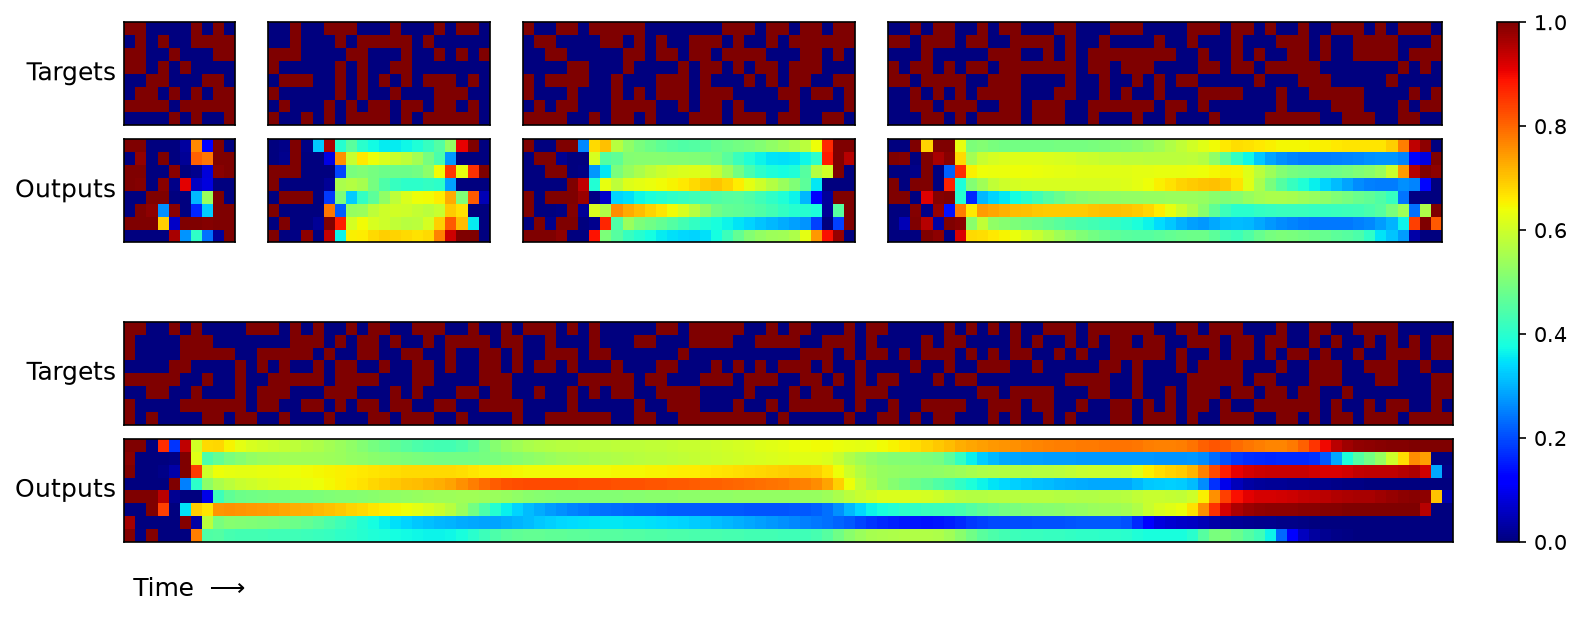
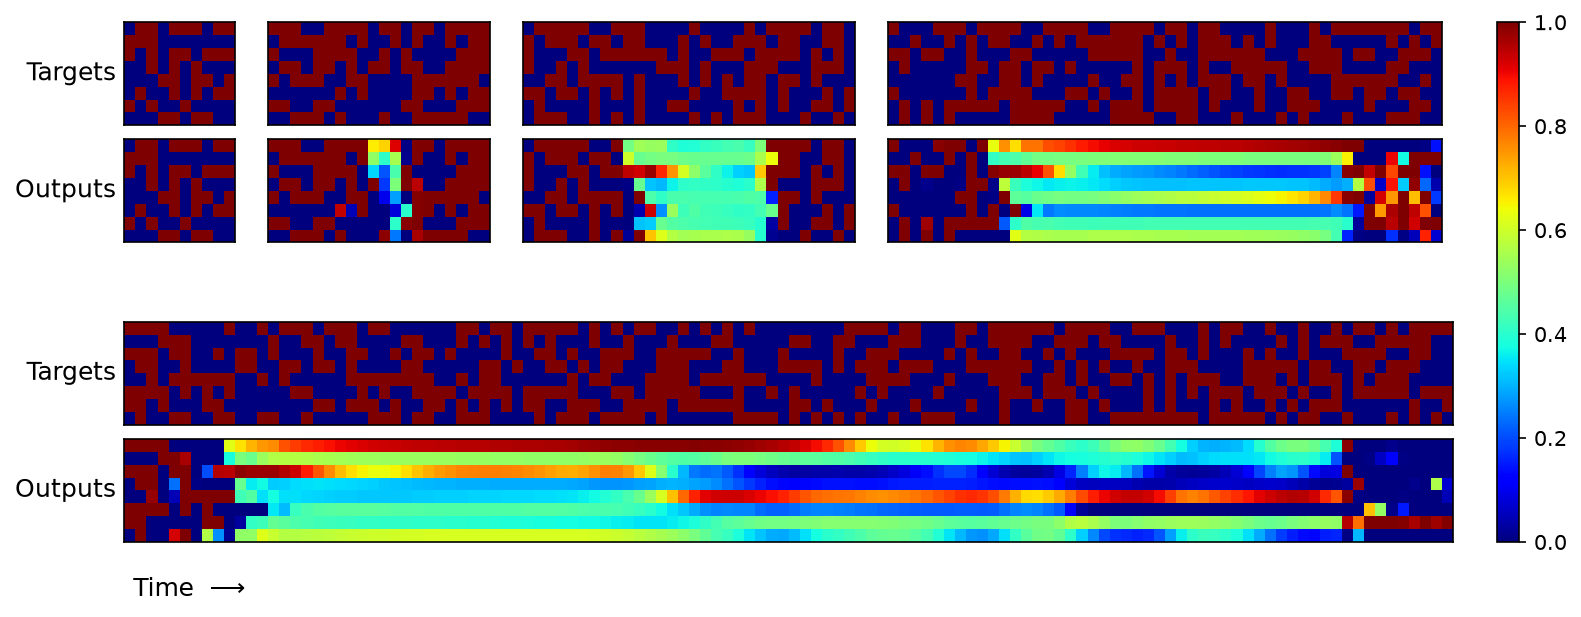
Give every task the architecture the paper specifies
Tables 1-3 give each task its own head count, controller size and
learning rate; running them all with the copy task's model was not a fair
test - priority sort is meant to have 8 heads and a 512-unit controller,
not 1 and 100. Parameter counts now land within 1-2% of the paper's for
most task/model pairs, and within 1% for dynamic N-grams.

The LSTM controller can also stack layers, which priority sort needs.

diff --git a/src/models/build.py b/src/models/build.py
@@ -8,28 +8,68 @@ import torch
 from src.models.lstm import LSTM
 from src.models.ntm.ntm import NTM
 
-MODELS = {
-    # the baseline: 3 x 256 LSTM, Table 3
-    "lstm": lambda i, o: LSTM(input_size=i, output_size=o),
-    "ntm-ff": lambda i, o: NTM(input_size=i, output_size=o, controller="feedforward"),  # Table 1
-    "ntm-lstm": lambda i, o: NTM(input_size=i, output_size=o, controller="lstm"),  # Table 2
+MODELS = ["lstm", "ntm-ff", "ntm-lstm"]
+
+# The paper gives every task its own architecture and learning rate, in Tables 1 (NTM with a
+# feed-forward controller), 2 (NTM with an LSTM controller) and 3 (the LSTM baseline). Running
+# every task with the copy task's model, as an earlier version of this code did, is not a fair
+# test: priority sort is meant to have 8 heads and a 512-unit controller, not 1 and 100.
+#
+# "#Heads" is read here as that many read heads and that many write heads.
+SETTINGS = {
+    #                     ntm-ff: heads, controller   ntm-lstm: heads, controller, layers   lstm: units, layers
+    "copy": {
+        "ntm-ff": dict(heads=1, controller_size=100, learning_rate=1e-4),
+        "ntm-lstm": dict(heads=1, controller_size=100, learning_rate=1e-4),
+        "lstm": dict(hidden_size=256, num_layers=3, learning_rate=3e-5),
+    },
+    "repeat-copy": {
+        "ntm-ff": dict(heads=1, controller_size=100, learning_rate=1e-4),
+        "ntm-lstm": dict(heads=1, controller_size=100, learning_rate=1e-4),
+        "lstm": dict(hidden_size=512, num_layers=3, learning_rate=3e-5),
+    },
+    "associative-recall": {
+        "ntm-ff": dict(heads=4, controller_size=256, learning_rate=1e-4),
+        "ntm-lstm": dict(heads=1, controller_size=100, learning_rate=1e-4),
+        "lstm": dict(hidden_size=256, num_layers=3, learning_rate=1e-4),
+    },
+    "dynamic-ngrams": {
+        "ntm-ff": dict(heads=1, controller_size=100, learning_rate=3e-5),
+        "ntm-lstm": dict(heads=1, controller_size=100, learning_rate=3e-5),
+        "lstm": dict(hidden_size=128, num_layers=3, learning_rate=1e-4),
+    },
+    "priority-sort": {
+        "ntm-ff": dict(heads=8, controller_size=512, learning_rate=3e-5),
+        "ntm-lstm": dict(heads=5, controller_size=100, controller_layers=2, learning_rate=3e-5),
+        "lstm": dict(hidden_size=128, num_layers=3, learning_rate=3e-5),
+    },
 }
 
-# The paper's rates, Tables 1-3. They assume one sequence per update, which is the default here.
-# With a larger batch there are proportionally fewer updates and these are too low: at batch 16
-# the LSTM-controller NTM sits near chance at 1e-4 and needs about 1e-3.
-LEARNING_RATES = {"lstm": 3e-5, "ntm-ff": 1e-4, "ntm-lstm": 1e-4}
+
+def settings(task_name, model_name):
+    if model_name not in MODELS:
+        raise SystemExit(f"unknown model '{model_name}': choose from {', '.join(MODELS)}")
+    return dict(SETTINGS[task_name][model_name])
 
 
-def build_model(name, input_size, output_size):
-    if name not in MODELS:
-        raise SystemExit(f"unknown model '{name}': choose from {', '.join(MODELS)}")
-    return MODELS[name](input_size, output_size)
+def learning_rate(task_name, model_name):
+    return settings(task_name, model_name)["learning_rate"]
 
 
-def load_model(name, checkpoint_path, task):
+def build_model(name, input_size, output_size, task_name="copy"):
+    options = settings(task_name, name)
+    options.pop("learning_rate")
+    if name == "lstm":
+        return LSTM(input_size=input_size, output_size=output_size, **options)
+    heads = options.pop("heads")
+    return NTM(input_size=input_size, output_size=output_size,
+               controller="feedforward" if name == "ntm-ff" else "lstm",
+               num_read_heads=heads, num_write_heads=heads, **options)
+
+
+def load_model(name, checkpoint_path, task, task_name="copy"):
     """The trained model, ready for the plots: same shape as the run that saved it."""
-    model = build_model(name, task.INPUT_SIZE, task.OUTPUT_SIZE)
+    model = build_model(name, task.INPUT_SIZE, task.OUTPUT_SIZE, task_name)
     model.load_state_dict(torch.load(checkpoint_path, map_location="cpu"))
     model.eval()
     return model

diff --git a/main.py b/main.py
@@ -22,8 +22,8 @@ import time
 
 import torch
 
-from src.models.build import LEARNING_RATES, MODELS, build_model
-from src.plots import plot_all_learning_curves, plot_learning_curve, task_plot
+from src.models.build import MODELS, build_model
+from src.plots import plot_all_learning_curves, plot_learning_curve, plot_memory_use, task_plot
 from src.tasks.copy.try_it import parse_vectors, try_sequence
 from src.tasks.registry import TASKS, get_task
 from src.train import TrainConfig, train
@@ -37,7 +37,7 @@ def demo(task_name, model_name):
     print("input x:", tuple(x.shape), f"= (batch, timesteps, {task.INPUT_SIZE} input channels)")
     print(x[0])
 
-    model = build_model(model_name, task.INPUT_SIZE, task.OUTPUT_SIZE)
+    model = build_model(model_name, task.INPUT_SIZE, task.OUTPUT_SIZE, task_name)
     print(f"{model_name}: {model.num_parameters():,} parameters")
     logits = model(x)
     print("output logits:", tuple(logits.shape), f"= (batch, timesteps, {task.OUTPUT_SIZE} output channels)")
@@ -61,9 +61,12 @@ def draw_every_figure(task_name):
         plot_learning_curve(config.log_path, f"{prefix}_learning_curve.png", label=model)
         if generalisation:
             generalisation(model, config.checkpoint_path, f"{prefix}_generalisation.png")
-        if memory_use and model.startswith("ntm"):
-            for length in (20, 40):
-                memory_use(model, config.checkpoint_path, f"{prefix}_memory_length{length}.png", length)
+        if model.startswith("ntm"):
+            if memory_use:  # copy pins the sequence length so the diagonal matches the paper
+                for length in (20, 40):
+                    memory_use(model, config.checkpoint_path, f"{prefix}_memory_length{length}.png", length)
+            else:  # every other task gets the generic version on one of its own examples
+                plot_memory_use(task_name, model, config.checkpoint_path, f"{prefix}_memory.png")
     logs = {model: TrainConfig(model=model, task=task_name).log_path for model in MODELS}
     plot_all_learning_curves(logs, f"figures/{task_name}_learning_curves.png")
 
@@ -146,7 +149,7 @@ def main():
     if args.command == "train":
         config.total_sequences = args.sequences
         config.batch_size = args.batch_size
-        config.learning_rate = args.learning_rate or LEARNING_RATES[args.model]
+        config.learning_rate = args.learning_rate or 0.0
         config.seed = args.seed
         config.device = args.device
         config.compile = args.compile
@@ -168,13 +171,15 @@ def main():
             generalisation(args.model, config.checkpoint_path, f"{prefix}_generalisation.png")
             print(f"saved {prefix}_generalisation.png")
     elif args.command == "memory":
-        memory_use = task_plot(args.task, "plot_memory_use")
-        if not memory_use:
-            raise SystemExit(f"no memory figure for the {args.task} task yet")
         if not args.model.startswith("ntm"):
             raise SystemExit("memory plots need an NTM: --model ntm-ff or ntm-lstm")
-        out = f"{prefix}_memory_length{args.length}.png"
-        memory_use(args.model, config.checkpoint_path, out, args.length)
+        memory_use = task_plot(args.task, "plot_memory_use")
+        if memory_use:  # copy pins the sequence length so the diagonal matches the paper's figure
+            out = f"{prefix}_memory_length{args.length}.png"
+            memory_use(args.model, config.checkpoint_path, out, args.length)
+        else:
+            out = f"{prefix}_memory.png"
+            plot_memory_use(args.task, args.model, config.checkpoint_path, out)
         print(f"saved {out}")
     elif args.command == "try":
         if args.task != "copy":

diff --git a/src/plots.py b/src/plots.py
@@ -100,3 +100,57 @@ def plot_all_learning_curves(log_paths: dict, out_path: str, chunk: int = 10_000
     fig.tight_layout()
     fig.savefig(out_path, dpi=150)
     plt.close(fig)
+
+
+def plot_memory_use(task_name: str, model_name: str, checkpoint_path: str, out_path: str):
+    """Figure 6 of the paper, for any task: what the heads did, timestep by timestep.
+
+    Left column: the input, the vectors written to memory, and the write weightings. Right column:
+    the output, the vectors read back, and the read weightings. A model that has learned to use
+    memory shows sharp weightings that move over time; one that has not shows a smear.
+
+    The copy task overrides this with its own version, which pins the sequence length so the
+    diagonal is easy to compare against the paper's figure.
+    """
+    import torch
+
+    from src.models.build import load_model
+    from src.tasks.registry import get_task
+
+    task = get_task(task_name)
+    model = load_model(model_name, checkpoint_path, task, task_name)
+    x, _, _ = task.batch(1)
+    trace = {}
+    with torch.no_grad():
+        outputs = torch.sigmoid(model(x, trace=trace)[0])
+
+    write_w = torch.stack(trace["write_weightings"], dim=1)
+    read_w = torch.stack(trace["read_weightings"], dim=1)
+    adds = torch.stack(trace["adds"], dim=1)
+    reads = torch.stack(trace["reads"], dim=1)
+
+    used = (write_w.max(dim=1).values + read_w.max(dim=1).values) > 0.01
+    rows = used.nonzero().flatten()
+    window = slice(max(0, int(rows.min()) - 2), int(rows.max()) + 3) if len(rows) else slice(0, 40)
+
+    fig, axes = plt.subplots(3, 2, figsize=(11, 7), gridspec_kw={"height_ratios": [1, 1.3, 2.6]})
+    panels = [
+        ("Inputs", x[0].T, "gray", axes[0, 0]),
+        ("Outputs", outputs.T, "gray", axes[0, 1]),
+        ("Adds", adds, "jet", axes[1, 0]),
+        ("Reads", reads, "jet", axes[1, 1]),
+        ("Write weightings", write_w[window], "gray", axes[2, 0]),
+        ("Read weightings", read_w[window], "gray", axes[2, 1]),
+    ]
+    for title, image, cmap, ax in panels:
+        ax.imshow(image, cmap=cmap, aspect="auto", interpolation="nearest", vmin=0, vmax=1)
+        ax.set_title(title, fontsize=10)
+        ax.set_xticks([])
+        ax.set_yticks([])
+    axes[2, 0].set_ylabel("Location")
+    for ax in (axes[2, 0], axes[2, 1]):
+        ax.set_xlabel("Time \u2192")
+    fig.suptitle(f"{task_name}: {model_name} memory use", fontsize=11)
+    fig.tight_layout()
+    fig.savefig(out_path, dpi=150)
+    plt.close(fig)

diff --git a/src/models/ntm/controllers.py b/src/models/ntm/controllers.py
@@ -23,18 +23,30 @@ class FeedForwardController(nn.Module):
 
 
 class LSTMController(nn.Module):
-    """An LSTM cell, so the controller also has a small internal memory alongside the memory matrix."""
+    """LSTM cells, so the controller also has a small internal memory alongside the memory matrix.
 
-    def __init__(self, input_size, hidden_size):
+    The paper's Table 2 gives priority sort a controller of "2 x 100", two layers of 100 units,
+    so the number of layers is configurable; every other task uses one.
+    """
+
+    def __init__(self, input_size, hidden_size, layers=1):
         super().__init__()
-        self.cell = nn.LSTMCell(input_size, hidden_size)
+        sizes = [input_size] + [hidden_size] * layers
+        self.cells = nn.ModuleList(nn.LSTMCell(sizes[i], sizes[i + 1]) for i in range(layers))
         # The paper resets to a learned bias at the start of each sequence
-        self.h0 = nn.Parameter(torch.zeros(1, hidden_size))
-        self.c0 = nn.Parameter(torch.zeros(1, hidden_size))
+        self.h0 = nn.Parameter(torch.zeros(layers, 1, hidden_size))
+        self.c0 = nn.Parameter(torch.zeros(layers, 1, hidden_size))
 
     def initial_state(self, batch_size):
-        return self.h0.expand(batch_size, -1), self.c0.expand(batch_size, -1)
+        return ([h.expand(batch_size, -1) for h in self.h0],
+                [c.expand(batch_size, -1) for c in self.c0])
 
     def forward(self, x, state):
-        h, c = self.cell(x, state)
-        return h, (h, c)
+        hs, cs = state
+        new_hs, new_cs = [], []
+        for cell, h, c in zip(self.cells, hs, cs):
+            h, c = cell(x, (h, c))
+            new_hs.append(h)
+            new_cs.append(c)
+            x = h  # each layer feeds the one above
+        return x, (new_hs, new_cs)

diff --git a/src/train.py b/src/train.py
@@ -11,7 +11,7 @@ import torch
 
 from src.graphs import CapturedStep
 from src.loss import masked_bce
-from src.models.build import build_model
+from src.models.build import build_model, learning_rate as paper_learning_rate
 from src.tasks.registry import get_task
 
 
@@ -22,7 +22,7 @@ class TrainConfig:
 
     # From the paper: Section 4.6 and Tables 1-3
     total_sequences: int = 1_000_000  # Figure 3's x-axis runs to 1000 thousand sequences
-    learning_rate: float = 3e-5  # per model; see LEARNING_RATES
+    learning_rate: float = 0.0  # 0 means take the paper's rate for this task and model
     momentum: float = 0.9
     clip_value: float = 10.0
     clip_norm: float = 10.0  # NTM gradients spike; clipping the whole gradient's norm is steadier
@@ -118,8 +118,11 @@ def train(config: TrainConfig):
     torch.manual_seed(config.seed)
 
     task = get_task(config.task)
+    if not config.learning_rate:
+        config.learning_rate = paper_learning_rate(config.task, config.model)
+
     device = choose_device(config)
-    model = build_model(config.model, task.INPUT_SIZE, task.OUTPUT_SIZE).to(device)
+    model = build_model(config.model, task.INPUT_SIZE, task.OUTPUT_SIZE, config.task).to(device)
     graphed = device == "cuda" and config.cuda_graphs
     # Compile a copy for speed, but keep `model` for checkpoints: a compiled module renames its
     # parameters, which would make the saved file unloadable by `plot` and `try`.

diff --git a/src/models/ntm/ntm.py b/src/models/ntm/ntm.py
@@ -20,6 +20,7 @@ class NTM(nn.Module):
         output_size: int = 8,
         controller: str = "feedforward",
         controller_size: int = 100,
+        controller_layers: int = 1,
         memory_locations: int = 128,
         memory_width: int = 20,
         num_read_heads: int = 1,
@@ -31,8 +32,10 @@ class NTM(nn.Module):
 
         # The controller sees the external input plus what the read heads found last timestep
         controller_input = input_size + num_read_heads * memory_width
-        controller_class = {"feedforward": FeedForwardController, "lstm": LSTMController}[controller]
-        self.controller = controller_class(controller_input, controller_size)
+        if controller == "feedforward":
+            self.controller = FeedForwardController(controller_input, controller_size)
+        else:
+            self.controller = LSTMController(controller_input, controller_size, controller_layers)
 
         self.read_heads = nn.ModuleList(ReadHead(controller_size, memory_width) for _ in range(num_read_heads))
         self.write_heads = nn.ModuleList(WriteHead(controller_size, memory_width) for _ in range(num_write_heads))

diff --git a/src/tasks/copy/plots.py b/src/tasks/copy/plots.py
@@ -15,7 +15,7 @@ from src.tasks.copy import data as copy_data
 
 
 def plot_generalisation(model_name: str, checkpoint_path: str, out_path: str):
-    model = load_model(model_name, checkpoint_path, copy_data)
+    model = load_model(model_name, checkpoint_path, copy_data, "copy")
 
     # The page is a grid with one column per timestep, so each panel's width matches its length.
     # Top: lengths 10, 20, 30, 50 side by side. Bottom: length 120 across the whole width.
@@ -58,7 +58,7 @@ def plot_memory_use(model_name: str, checkpoint_path: str, out_path: str, length
     A network that has learned to copy shows a diagonal stripe in both weightings: the write head
     steps along memory while reading the input, and the read head retraces the same locations.
     """
-    model = load_model(model_name, checkpoint_path, copy_data)
+    model = load_model(model_name, checkpoint_path, copy_data, "copy")
     x, _, _ = copy_data.batch(1, length, length)
     trace = {}
     with torch.no_grad():

diff --git a/modal_run.py b/modal_run.py
@@ -26,7 +26,6 @@ def train_on_gpu(model: str, task: str, sequences: int, seed: int):
     import sys
 
     sys.path.insert(0, "/root")
-    from src.models.build import LEARNING_RATES
     from src.train import TrainConfig, train
 
     config = TrainConfig(
@@ -34,7 +33,6 @@ def train_on_gpu(model: str, task: str, sequences: int, seed: int):
         task=task,
         total_sequences=sequences,
         seed=seed,
-        learning_rate=LEARNING_RATES[model],
         device="cuda",
     )
     train(config)

diff --git a/src/tasks/copy/try_it.py b/src/tasks/copy/try_it.py
@@ -16,7 +16,7 @@ def parse_vectors(vectors: list[str]) -> torch.Tensor:
 
 
 def try_sequence(model_name: str, checkpoint_path: str, target: torch.Tensor, out_path: str):
-    model = load_model(model_name, checkpoint_path, copy_data)
+    model = load_model(model_name, checkpoint_path, copy_data, "copy")
     length = target.shape[1]
     x = copy_data.make_input(target)
     with torch.no_grad():
